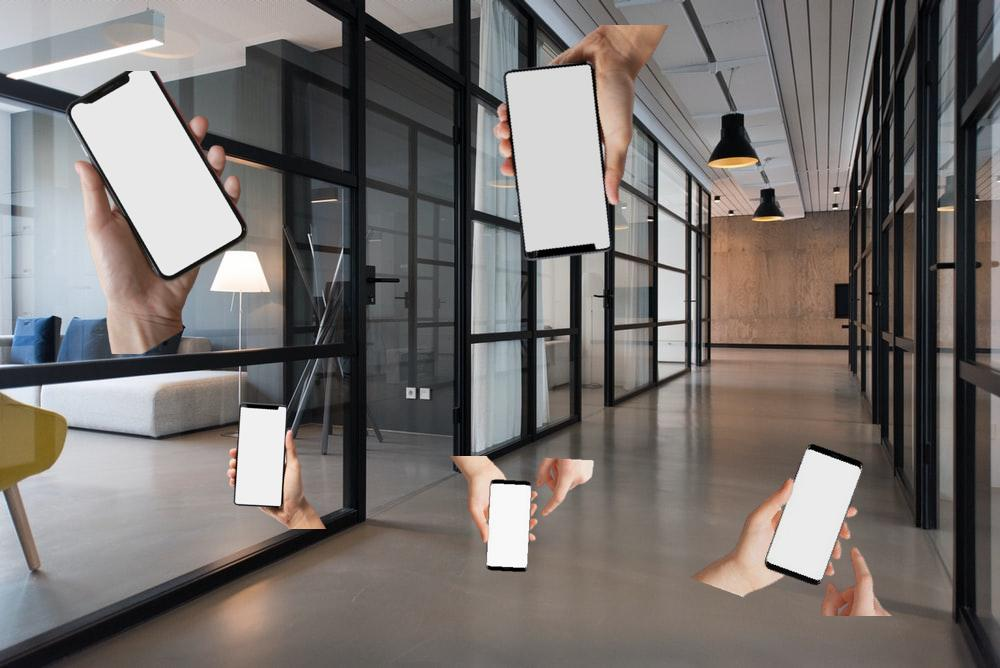
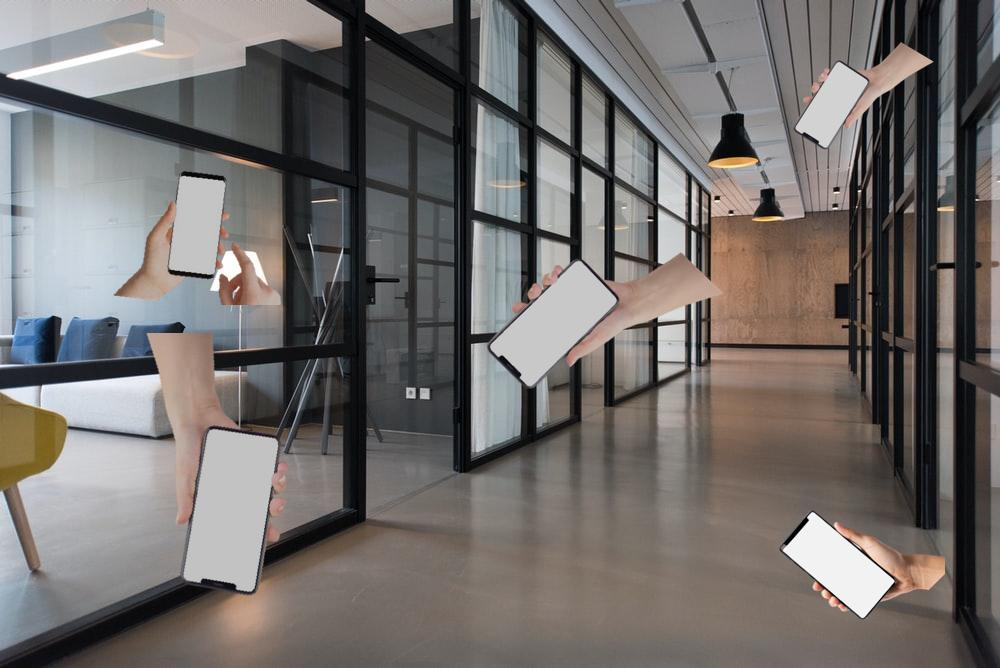
no longer requires annotations

diff --git a/index.py b/index.py
@@ -173,19 +173,31 @@ for background_img in os.listdir( bg_dir ):
             if os.path.isdir( os.path.join( cl_dir, obj_class ) ):
                 for interation in range( 0, random.randint( config[ "per_class_min" ], config[ "per_class_max" ] ) ):
 
-                    file = random.choice( os.listdir( os.path.join( cl_dir, obj_class, "annotations" ) ) );
-                    file = json.loads( json.dumps( xmltodict.parse( gfg.tostring( gfg.parse( os.path.join( cl_dir, obj_class, "annotations", file ) ).getroot() ) ) ) )[ "annotation" ]
-                    foreground = Image.open( os.path.join( cl_dir, obj_class, "images", file[ "filename" ] ) )
+                    image      = random.choice( os.listdir( os.path.join( cl_dir, obj_class, "images" ) ) )
+                    annotation = os.path.splitext( image )[ 0 ] + ".xml"
+                    foreground = Image.open( os.path.join( cl_dir, obj_class, "images", image ) )
 
-                    # Set Original Bounding Boxes
-                    bbox = (
-                        int( file[ "object" ][ "bndbox" ][ "xmin" ] ),
-                        int( file[ "object" ][ "bndbox" ][ "ymin" ] ),
-                        int( file[ "object" ][ "bndbox" ][ "xmax" ] ),
-                        int( file[ "object" ][ "bndbox" ][ "ymax" ] )
-                    )
+                    # If has annotation
+                    if os.path.exists( os.path.join( cl_dir, obj_class, "annotations" ) ) and os.path.exists( os.path.join( cl_dir, obj_class, "annotations", annotation ) ):
+                        file = json.loads( json.dumps( xmltodict.parse( gfg.tostring( gfg.parse( os.path.join( cl_dir, obj_class, "annotations", annotation ) ).getroot() ) ) ) )[ "annotation" ]
+                    
+                        # Set Original Bounding Boxes
+                        bbox = (
+                            int( file[ "object" ][ "bndbox" ][ "xmin" ] ),
+                            int( file[ "object" ][ "bndbox" ][ "ymin" ] ),
+                            int( file[ "object" ][ "bndbox" ][ "xmax" ] ),
+                            int( file[ "object" ][ "bndbox" ][ "ymax" ] )
+                        )
 
-                    foreground, bbox = imageManipulation( foreground, bbox );
+                    else:
+                        bbox = (
+                            0,
+                            0,
+                            foreground.size[ 0 ],
+                            foreground.size[ 1 ]
+                        )
+
+                    foreground, bbox = imageManipulation( foreground, bbox )
 
                     # Set Position and size of object
                     _width  = random.randint( int( background.size[ 0 ] * config[ "scale_min" ] ), int( background.size[ 0 ] * config[ "scale_max" ] ) )

diff --git a/readme.md b/readme.md
@@ -8,7 +8,7 @@ The use of synthetic generated images increases dataset accuracy and produces ov
 
 
 ## Description
-The folder structure is simple. A `backgrounds` folder which contains the backgrounds that will be used, each of these will only be used onced. These background images can only be png. There is then an `objects` directory, inside this directory you will place another folder with PNG images it in. For examples, lets say we want to add a laptop class, create a folder `objects/laptop`, there is then a `objects/laptop/annotations` folder which you place the annotations in and an `objects/laptop/images` where laptop images (PNG) in that folder. You can use [ Make Sense AI ](makesense.ai) to create the annoations. All final images are exported as PNG to ensure support of Tensorflow.
+The folder structure is simple. A `backgrounds` folder which contains the backgrounds that will be used, each of these will only be used onced. These background images can only be png. There is then an `objects` directory, inside this directory you will place another folder with PNG images it in. For examples, lets say we want to add a laptop class, create a folder `objects/laptop`, there is then a `objects/laptop/annotations` folder which you place the annotations in and an `objects/laptop/images` where laptop images (PNG) in that folder. You can use [ Make Sense AI ](makesense.ai) to create the annoations. All final images are exported as PNG to ensure support of Tensorflow. An annotation is not required for an images. If there is no image it the program will place the bounding box around the full placed image.
 
 The output model in the Tensorflow format, with an `output/images` which contains all the images created and will have a `output/annotations` folder with all the xml annotations.
 
@@ -34,6 +34,7 @@ By default it will grab from the `output` directory. So you must make a folder c
 <br>
 
 ### Updates
+- **(11/7/20)** Now allows generation without an annotation for an image. If an image does not have an annotation will place the bounding box around the whole image that was placed.
 - **(8/18/20)** Added preview feature allowing you to draw bounding boxes over annotations that were generated
 - **(8/18/20)** Fixed integer random failor point
 - **(8/18/20)** sRGB export updated to JPG type to support tensorflow
